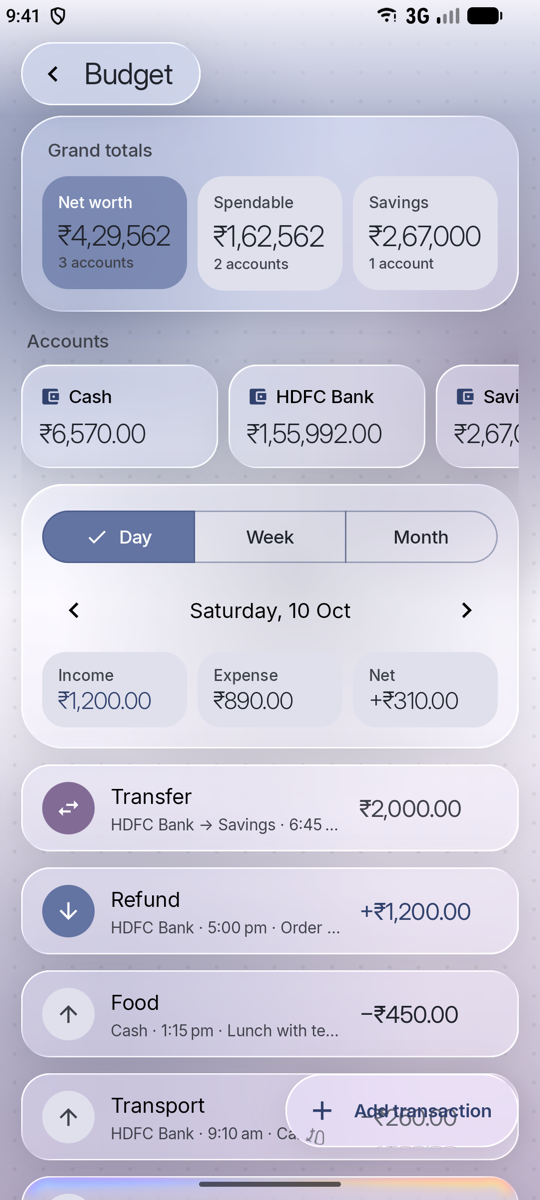
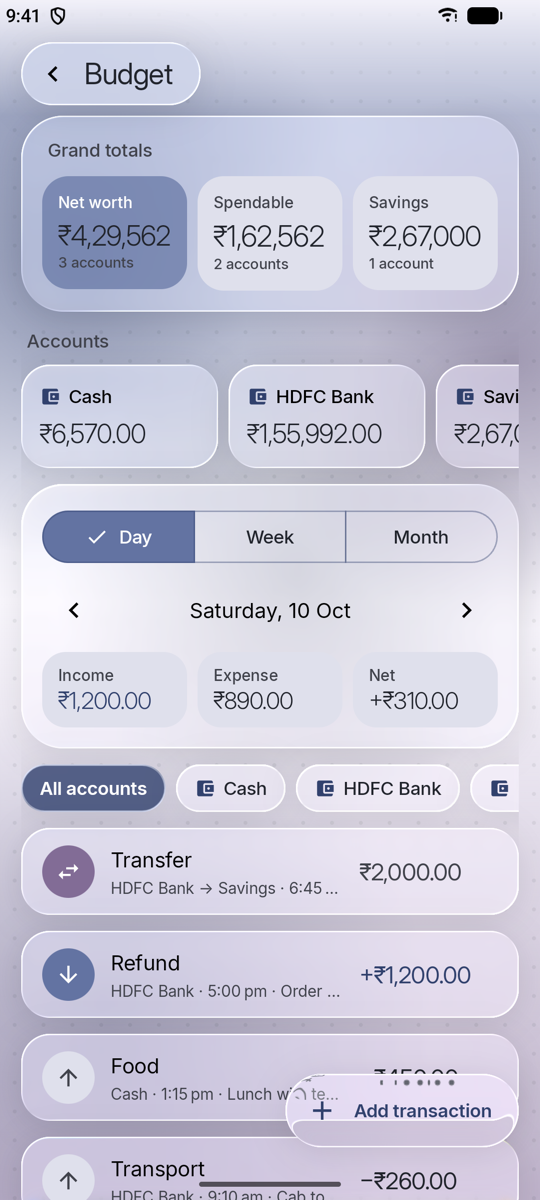
Filter Transactions

Changed region(s): [[0.0296, 0.6167, 0.9778, 1.0], [0.7111, 0.0, 0.8593, 0.0308]]

diff --git a/app/src/main/java/com/uzxsan/dev/track/ui/components/Glass.kt b/app/src/main/java/com/uzxsan/dev/track/ui/components/Glass.kt
@@ -16,6 +16,7 @@ import androidx.compose.foundation.layout.Arrangement
 import androidx.compose.foundation.layout.Column
 import androidx.compose.foundation.layout.ColumnScope
 import androidx.compose.foundation.layout.Row
+import androidx.compose.foundation.layout.Spacer
 import androidx.compose.foundation.layout.WindowInsets
 import androidx.compose.foundation.layout.fillMaxHeight
 import androidx.compose.foundation.layout.fillMaxSize
@@ -24,6 +25,7 @@ import androidx.compose.foundation.layout.height
 import androidx.compose.foundation.layout.padding
 import androidx.compose.foundation.layout.size
 import androidx.compose.foundation.layout.statusBars
+import androidx.compose.foundation.layout.width
 import androidx.compose.foundation.layout.windowInsetsPadding
 import androidx.compose.foundation.shape.RoundedCornerShape
 import androidx.compose.material3.BottomSheetDefaults
@@ -47,7 +49,10 @@ import androidx.compose.ui.graphics.drawscope.DrawScope
 import androidx.compose.ui.graphics.painter.Painter
 import androidx.compose.ui.res.painterResource
 import androidx.compose.ui.res.stringResource
+import androidx.compose.ui.semantics.selected
+import androidx.compose.ui.semantics.semantics
 import androidx.compose.ui.text.font.FontWeight
+import androidx.compose.ui.text.style.TextOverflow
 import androidx.compose.ui.unit.Dp
 import androidx.compose.ui.unit.dp
 import com.kyant.backdrop.Backdrop
@@ -58,6 +63,10 @@ import com.kyant.backdrop.effects.lens
 import com.kyant.backdrop.effects.vibrancy
 import com.uzxsan.dev.track.R
 import com.uzxsan.dev.track.ui.theme.accentStrong
+import com.uzxsan.dev.track.ui.theme.errorStrong
+import com.uzxsan.dev.track.ui.theme.idleGlassTint
+import com.uzxsan.dev.track.ui.theme.onTintedGlass
+import com.uzxsan.dev.track.ui.theme.secondaryStrong
 
 /** The app-wide background layer that every glass surface refracts. */
 val LocalBackdrop = staticCompositionLocalOf<Backdrop> { emptyBackdrop() }
@@ -242,7 +251,34 @@ fun GlassIconButton(
 }
 
 /**
- * Frosted glass button tinted with [color] and white content, for actions inside glass cards.
+ * Look of a [GlassTintedButton]. Every style keeps text at 4.5:1 or better over the glass backdrop
+ * in both themes.
+ */
+enum class GlassButtonStyle {
+    /** Primary action: strong accent at 80% with white content. */
+    Accent,
+
+    /** Secondary actions (rollover, edit): secondary at 30%. */
+    Secondary,
+
+    /** Destructive actions (delete): error red at 30%. */
+    Destructive;
+
+    /** Glass tint for this style. */
+    @Composable
+    fun tint(): Color = when (this) {
+        Accent -> accentStrong().copy(alpha = 0.8f)
+        Secondary -> secondaryStrong().copy(alpha = 0.3f)
+        Destructive -> errorStrong().copy(alpha = 0.3f)
+    }
+
+    /** Text and icon colour on [tint]. */
+    @Composable
+    fun contentColor(): Color = if (this == Accent) Color.White else onTintedGlass()
+}
+
+/**
+ * Frosted glass button for actions inside glass cards, tinted per [style].
  * Shows [icon] and, when given, [text]; without text it is a round icon button.
  */
 @Composable
@@ -252,17 +288,18 @@ fun GlassTintedButton(
     modifier: Modifier = Modifier,
     text: String? = null,
     contentDescription: String? = text,
-    color: Color = accentStrong(),
+    style: GlassButtonStyle = GlassButtonStyle.Accent,
     backdrop: Backdrop = LocalBackdrop.current,
 ) {
     val shape = RoundedCornerShape(50)
+    val contentColor = style.contentColor()
     GlassSurface(
         modifier = modifier
             .height(40.dp)
             .then(if (text == null) Modifier.size(40.dp) else Modifier)
             .border(1.dp, Color.White.copy(alpha = 0.35f), shape),
         shape = shape,
-        tint = color.copy(alpha = 0.8f),
+        tint = style.tint(),
         blurRadius = 12.dp,
         refractionHeight = 8.dp,
         refractionAmount = 16.dp,
@@ -277,16 +314,67 @@ fun GlassTintedButton(
             horizontalArrangement = Arrangement.Center,
             verticalAlignment = Alignment.CenterVertically,
         ) {
-            Icon(icon, contentDescription.takeIf { text == null }, Modifier.size(18.dp), tint = Color.White)
+            Icon(icon, contentDescription.takeIf { text == null }, Modifier.size(18.dp), tint = contentColor)
             if (text != null) {
                 Text(
                     text = text,
                     style = MaterialTheme.typography.labelLarge,
                     fontWeight = FontWeight.SemiBold,
-                    color = Color.White,
+                    color = contentColor,
                     modifier = Modifier.padding(start = 6.dp),
                 )
             }
+        }
+    }
+}
+
+/**
+ * Liquid glass filter chip: frosted when idle, and in the [GlassButtonStyle.Accent] style when [selected].
+ */
+@Composable
+fun GlassFilterChip(
+    text: String,
+    selected: Boolean,
+    onClick: () -> Unit,
+    modifier: Modifier = Modifier,
+    icon: Painter? = null,
+    backdrop: Backdrop = LocalBackdrop.current,
+) {
+    val shape = RoundedCornerShape(50)
+    val scheme = MaterialTheme.colorScheme
+    val contentColor = if (selected) GlassButtonStyle.Accent.contentColor() else scheme.onSurface
+    GlassSurface(
+        modifier = modifier
+            .height(36.dp)
+            .border(1.dp, Color.White.copy(alpha = 0.35f), shape)
+            .semantics { this.selected = selected },
+        shape = shape,
+        tint = if (selected) GlassButtonStyle.Accent.tint() else idleGlassTint(),
+        blurRadius = 12.dp,
+        refractionHeight = 8.dp,
+        refractionAmount = 16.dp,
+        chromaticAberration = false,
+        backdrop = backdrop,
+        onClick = onClick,
+    ) {
+        Row(
+            modifier = Modifier
+                .fillMaxHeight()
+                .padding(horizontal = 14.dp),
+            verticalAlignment = Alignment.CenterVertically,
+        ) {
+            if (icon != null) {
+                Icon(icon, contentDescription = null, Modifier.size(16.dp), tint = if (selected) contentColor else scheme.primary)
+                Spacer(Modifier.width(6.dp))
+            }
+            Text(
+                text = text,
+                style = MaterialTheme.typography.labelLarge,
+                fontWeight = if (selected) FontWeight.SemiBold else FontWeight.Medium,
+                color = contentColor,
+                maxLines = 1,
+                overflow = TextOverflow.Ellipsis,
+            )
         }
     }
 }

diff --git a/app/src/main/java/com/uzxsan/dev/track/money/MoneyScreen.kt b/app/src/main/java/com/uzxsan/dev/track/money/MoneyScreen.kt
@@ -68,6 +68,7 @@ import com.uzxsan.dev.track.money.data.MoneyAccount
 import com.uzxsan.dev.track.money.data.MoneyTransaction
 import com.uzxsan.dev.track.todo.weekDays
 import com.uzxsan.dev.track.ui.components.GlassExtendedFab
+import com.uzxsan.dev.track.ui.components.GlassFilterChip
 import com.uzxsan.dev.track.ui.components.GlassSurface
 import com.uzxsan.dev.track.ui.components.GlassTopBar
 import com.uzxsan.dev.track.ui.components.LocalBackdrop
@@ -105,10 +106,13 @@ fun MoneyScreen(
     var anchorEpoch by rememberSaveable { mutableLongStateOf(today.toEpochDay()) }
     var editor by rememberSaveable { mutableStateOf(if (openAddOnStart) Editor.NewTransaction else null) }
     var editorId by rememberSaveable { mutableLongStateOf(0L) }
+    var filterIds by rememberSaveable { mutableStateOf(emptyList<Long>()) }
     val anchor = LocalDate.ofEpochDay(anchorEpoch)
 
     val range = periodRange(anchor, period, firstDayOfWeek)
-    val inPeriod = state.snapshot.transactions.inRange(range)
+    // Ignore filters for accounts that have since been deleted.
+    val accountFilter = filterIds.filterTo(mutableSetOf()) { id -> state.snapshot.accounts.any { it.id == id } }
+    val inPeriod = state.snapshot.transactions.inRange(range).forAccounts(accountFilter)
     val flow = flowTotals(inPeriod)
     val accountName: (Long?) -> String = { id -> state.account(id)?.name ?: "—" }
 
@@ -176,10 +180,19 @@ fun MoneyScreen(
                     onNext = { anchorEpoch = shiftPeriod(anchor, period, 1).toEpochDay() },
                 )
             }
+            if (state.snapshot.accounts.size > 1) {
+                item(key = "filter") {
+                    AccountFilterRow(
+                        accounts = state.snapshot.accounts,
+                        selected = accountFilter,
+                        onChange = { filterIds = it.toList() },
+                    )
+                }
+            }
             if (inPeriod.isEmpty()) {
                 item(key = "empty") {
                     Text(
-                        stringResource(R.string.budget_empty_period),
+                        stringResource(if (accountFilter.isEmpty()) R.string.budget_empty_period else R.string.budget_empty_filtered),
                         style = MaterialTheme.typography.bodyMedium,
                         color = MaterialTheme.colorScheme.onSurfaceVariant,
                         textAlign = TextAlign.Center,
@@ -469,6 +482,30 @@ private fun PeriodCard(
                 FlowStat(stringResource(R.string.budget_expense), format.format(flow.expense), scheme.onSurface, Modifier.weight(1f))
                 FlowStat(stringResource(R.string.budget_net), format.formatSigned(flow.net), scheme.onSurface, Modifier.weight(1f))
             }
+        }
+    }
+}
+
+/** Chips to narrow the transaction list to one or more accounts; "All accounts" clears the filter. */
+@Composable
+private fun AccountFilterRow(accounts: List<MoneyAccount>, selected: Set<Long>, onChange: (Set<Long>) -> Unit) {
+    Row(
+        modifier = Modifier.horizontalScroll(rememberScrollState()),
+        horizontalArrangement = Arrangement.spacedBy(8.dp),
+    ) {
+        GlassFilterChip(
+            text = stringResource(R.string.budget_filter_all),
+            selected = selected.isEmpty(),
+            onClick = { onChange(emptySet()) },
+        )
+        accounts.forEach { account ->
+            val isSelected = account.id in selected
+            GlassFilterChip(
+                text = account.name,
+                selected = isSelected,
+                onClick = { onChange(if (isSelected) selected - account.id else selected + account.id) },
+                icon = painterResource(R.drawable.ic_wallet),
+            )
         }
     }
 }

diff --git a/app/src/main/java/com/uzxsan/dev/track/todo/TaskCard.kt b/app/src/main/java/com/uzxsan/dev/track/todo/TaskCard.kt
@@ -41,11 +41,11 @@ import androidx.compose.ui.unit.dp
 import com.uzxsan.dev.track.R
 import com.uzxsan.dev.track.todo.data.TaskWithStages
 import com.uzxsan.dev.track.todo.data.TodoStage
+import com.uzxsan.dev.track.ui.components.GlassButtonStyle
 import com.uzxsan.dev.track.ui.components.GlassSurface
 import com.uzxsan.dev.track.ui.components.GlassTintedButton
 import com.uzxsan.dev.track.ui.theme.accentStrong
 import com.uzxsan.dev.track.ui.theme.accentTrack
-import com.uzxsan.dev.track.ui.theme.errorStrong
 import java.time.format.DateTimeFormatter
 import java.time.format.FormatStyle
 
@@ -149,6 +149,7 @@ fun TaskCard(
                                 icon = painterResource(R.drawable.ic_rollover),
                                 text = stringResource(R.string.todo_rollover),
                                 onClick = onRollover,
+                                style = GlassButtonStyle.Secondary,
                             )
                         }
                         GlassTintedButton(
@@ -156,12 +157,13 @@ fun TaskCard(
                             text = stringResource(R.string.todo_edit),
                             contentDescription = stringResource(R.string.todo_edit_details),
                             onClick = onEdit,
+                            style = GlassButtonStyle.Secondary,
                         )
                         GlassTintedButton(
                             icon = painterResource(R.drawable.ic_delete),
                             contentDescription = stringResource(R.string.todo_delete),
                             onClick = onDelete,
-                            color = errorStrong(),
+                            style = GlassButtonStyle.Destructive,
                         )
                     }
                 }

diff --git a/app/src/main/java/com/uzxsan/dev/track/ui/theme/AccentColors.kt b/app/src/main/java/com/uzxsan/dev/track/ui/theme/AccentColors.kt
@@ -93,3 +93,17 @@ fun accentStrong(): Color = MaterialTheme.colorScheme.let { if (it.isDark) it.in
 /** Deep error tone for destructive glass buttons with white content. */
 @Composable
 fun errorStrong(): Color = MaterialTheme.colorScheme.let { if (it.isDark) it.errorContainer else it.error }
+
+/** Deep secondary tone for glass button tints (dark secondary is pale). */
+@Composable
+fun secondaryStrong(): Color = MaterialTheme.colorScheme.let { if (it.isDark) it.secondaryContainer else it.secondary }
+
+/** Content on lightly tinted glass: near-black in light theme, white in dark (keeps 4.5:1 over the backdrop). */
+@Composable
+fun onTintedGlass(): Color = MaterialTheme.colorScheme.let { if (it.isDark) Color.White else it.onSurface }
+
+/** Untinted frosted glass for idle controls; white glass under pale dark-theme text would wash out. */
+@Composable
+fun idleGlassTint(): Color = MaterialTheme.colorScheme.let {
+    if (it.isDark) it.surface.copy(alpha = 0.35f) else Color.White.copy(alpha = 0.35f)
+}

diff --git a/app/src/main/java/com/uzxsan/dev/track/money/MoneyLogic.kt b/app/src/main/java/com/uzxsan/dev/track/money/MoneyLogic.kt
@@ -68,6 +68,10 @@ fun flowTotals(transactions: List<MoneyTransaction>): FlowTotals = FlowTotals(
 fun List<MoneyTransaction>.inRange(range: ClosedRange<LocalDate>): List<MoneyTransaction> =
     filter { it.localDate in range }
 
+/** Transactions touching any of [accountIds], including transfers to or from them; all of them when empty. */
+fun List<MoneyTransaction>.forAccounts(accountIds: Set<Long>): List<MoneyTransaction> =
+    if (accountIds.isEmpty()) this else filter { it.accountId in accountIds || it.toAccountId in accountIds }
+
 /** Formats and parses amounts stored in minor units, in the device's currency. */
 class MoneyFormat(locale: Locale = Locale.getDefault()) {
     private val currency: Currency = runCatching { Currency.getInstance(locale) }.getOrElse { Currency.getInstance("USD") }

diff --git a/app/src/test/java/com/uzxsan/dev/track/money/MoneyLogicTest.kt b/app/src/test/java/com/uzxsan/dev/track/money/MoneyLogicTest.kt
@@ -52,6 +52,16 @@ class MoneyLogicTest {
     }
 
     @Test
+    fun accountFilterKeepsTransfersOnEitherSide() {
+        val all = snapshot.transactions
+        assertEquals(all, all.forAccounts(emptySet()))
+        assertEquals(listOf(TransactionType.Expense), all.forAccounts(setOf(1L)).map { it.type })
+        assertEquals(listOf(TransactionType.Transfer), all.forAccounts(setOf(3L)).map { it.type })
+        assertEquals(listOf(TransactionType.Income, TransactionType.Transfer), all.forAccounts(setOf(2L)).map { it.type })
+        assertEquals(all, all.forAccounts(setOf(1L, 2L)))
+    }
+
+    @Test
     fun transfersAreNotIncomeOrExpense() {
         val flow = flowTotals(snapshot.transactions)
         assertEquals(20_000L, flow.income)

diff --git a/README.md b/README.md
@@ -67,12 +67,15 @@ Plan your day and week, and move tasks forward stage by stage.
   <img src="Docs/screenshots/todo_week.png" width="220" alt="To Do – week view" />
   &nbsp;
   <img src="Docs/screenshots/todo_add.png" width="220" alt="To Do – new task sheet" />
+  &nbsp;
+  <img src="Docs/screenshots/todo_task.png" width="220" alt="To Do – expanded task with Roll over, Edit and Delete" />
 </p>
 
 - **Tasks with stages** — give a task ordered steps (e.g. *Plan → Draft → Review → Publish*). The ✓ button completes the current stage; the task is done when every stage is.
 - **Day timeline** (primary) — tasks laid out on a vertical timeline by time, or under *Anytime*.
 - **Week view** (primary) — every day of the week with its progress.
 - **Month & Year overviews** (from the ⋯ menu) — a calendar of task counts and twelve month tiles with completion bars.
+- **Expand a task** — tap a card to see its stage checklist, notes and links, with glass **Roll over**, **Edit** and **Delete** buttons.
 - **Roll over** — push an unfinished task to another day without losing its progress (see [How rollover works](#how-rollover-works)).
 - **Notes & links** — add notes and any number of URLs (one per line) to a task. Links open in the browser; `https://` is added when a link has no scheme. Edit both later with **Edit** on the expanded card.
 - Optional date and time per task, stage suggestions, and delete with **Undo**.
@@ -99,6 +102,8 @@ Accounts, income, expenses and transfers — with grand totals you define.
 <p>
   <img src="Docs/screenshots/budget.png" width="220" alt="Budget – day view" />
   &nbsp;
+  <img src="Docs/screenshots/budget_filter.png" width="220" alt="Budget – transactions filtered to one account" />
+  &nbsp;
   <img src="Docs/screenshots/budget_month.png" width="220" alt="Budget – month view" />
   &nbsp;
   <img src="Docs/screenshots/budget_add.png" width="220" alt="Budget – new transaction sheet" />
@@ -108,6 +113,8 @@ Accounts, income, expenses and transfers — with grand totals you define.
 - **Multiple accounts**, each with an opening balance and a live balance.
 - **Three grand totals** (default *Net worth*, *Spendable*, *Savings*) — rename them and choose exactly which accounts count towards each.
 - **Day / Week / Month** transaction lists with income, expense and net totals for every period and every day.
+- **Filter by account** — chips above the transactions narrow the list to one or more accounts. Transfers show up when
+  either side is selected, and the period's income, expense and net follow the filter. **All accounts** clears it.
 - Amounts are stored in minor units (paise / cents) so totals never drift, and are shown in your device's currency.
 - Thin, light typography throughout — no heavy bold numbers.
 
@@ -135,6 +142,9 @@ Widgets refresh instantly when data changes (in the app or from the widget) and 
 
 - **Liquid Glass** — cards, the floating top bar, buttons and bottom sheets blur and refract the content behind them
   (via [Backdrop](https://github.com/Kyant0/AndroidLiquidGlass)). Clear glass for floating buttons, frosted glass for sheets.
+- **Glass controls** — filter chips are frosted when idle and use the *Accent* button style when selected; card buttons come in
+  three styles (`GlassButtonStyle`): *Accent* for the main action, *Secondary* for edit and rollover, and *Destructive*
+  (red) for delete. Each keeps text at WCAG AA contrast (4.5:1) over the glass.
 - **Material You** — colours come from your wallpaper (Android 12+), with a soft colourful backdrop behind the glass.
 - **Inter** typeface — an open-source alternative to SF Pro, using *Inter Display* for headings and *Inter* for text.
 - Quick shared-axis transitions between screens and a branded splash screen.
@@ -199,7 +209,7 @@ From the command line:
 ```
 
 The unit tests cover the core logic of every tracker — DSA streaks, To Do stage progression, weeks,
-rollover and link parsing, and Budget balances, grand totals, period ranges and amount parsing.
+rollover and link parsing, and Budget balances, grand totals, period ranges, account filtering and amount parsing.
 
 Instrumented tests (on a device or emulator) cover the database migrations, To Do persistence and the task card UI:
 
@@ -222,7 +232,8 @@ swift branding/make_icons.swift       # run from the project root (macOS)
 1. Add its entities and DAO under a new package, register them in `TrackDatabase`, bump the version
    and add a migration in `data/Migrations.kt`.
 2. Expose a repository from `AppContainer`.
-3. Build the screen with the shared glass components (`GlassTopBar`, `GlassSurface`, `GlassExtendedFab`, `GlassBottomSheet`).
+3. Build the screen with the shared glass components (`GlassTopBar`, `GlassSurface`, `GlassExtendedFab`, `GlassBottomSheet`,
+   `GlassTintedButton` with a `GlassButtonStyle`, `GlassFilterChip`).
 4. Add a route in `navigation/TrackNavHost.kt` and an entry in `home/Trackers.kt`, plus a summary in `HomeViewModel`.
 
 ---

diff --git a/Docs/filter-transactions.md b/Docs/filter-transactions.md
@@ -1,0 +1,7 @@
+## Filter transactions by account (Budget tracker)
+- Give a filter list on top of the transactions to show only the transactions of the chosen accounts.
+- More than one account can be selected; **All accounts** clears the filter.
+- A transfer is shown when either its *from* or *to* account is selected.
+- The period's Income / Expense / Net and the per-day totals follow the filter.
+- Chips use the liquid glass effect; a selected chip uses the Accent button style (primary tint, white text).
+- To Do: **Roll over** and **Edit** are tinted with secondary at 30%, **Delete** with red at 30%.
